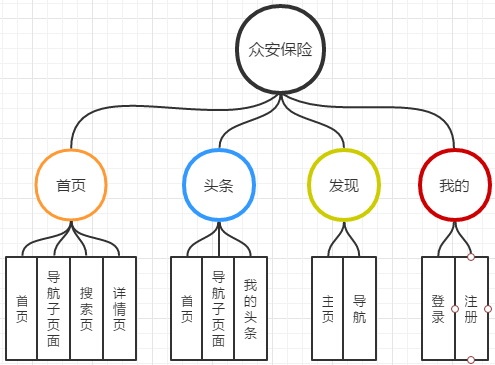
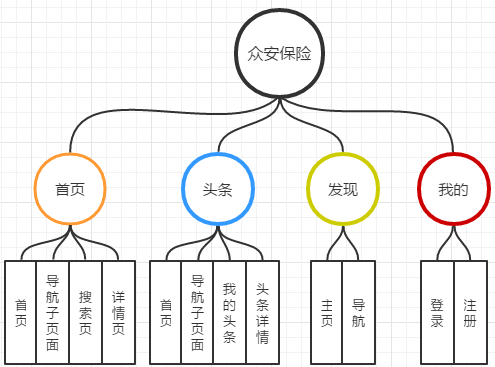
mo10

Changed region(s): [[0.0, 0.0, 1.0, 1.0], [0.6667, 0.4822, 0.7273, 0.5425]]

diff --git a/README.md b/README.md
@@ -1,12 +1,24 @@
 ## 项目名称：众安保险
 
-#### 官网：https://www.zhongan.com/
+#### 官网
 
-#### 上线网址：http://47.94.157.240:2017
+https://www.zhongan.com/
 
-#### 仓库地址：git@github.com:gzh51904/zhongan.git
+#### 上线网址
 
+http://47.94.157.240:6666
 
+#### 仓库地址
+
+git@github.com:gzh51904/zhongan.git
+
+## 使用技术与框架
+
+react、react-router、react-redux、redux、antd-UI、video-react插件、axios
+
+## 项目总体框架
+
+![](C:\Users\q1871\Desktop\momo\zhongan-cli\cli.png)
 
 ## 团队分工
 
@@ -19,11 +31,165 @@
 ###### 莫坚培：
 
 - 搭建项目脚手架，完成项目总体框架搭建
-- 完成头条页面样式、子页面样式、我的头条页面样式
-- 完成头条各个页面的逻辑、动态渲染头条列表
-- 处理保险数据，根据不同导航请求不同数据渲染
+- 完成头条页面样式、子页面样式、我的头条、头条详情页面样式
+- 完成头条各页面逻辑、根据url的参数动态渲染头条列表
+- 完成头条详情样式、根据url的参数动态渲染数据
 
+###### 曾维锟：
 
+- 完成App发现页，应用了redux共享数据，完成发现页的样式
+- 完成后台管理系统，应用了antd和React技术，实现商品列表动态渲染，实现商品的增删改查
 
+###### 胡俊森：
 
+- 完成‘我的’路由页
+- 实现登陆注册功能
+- 发现页面登录权限
+
+###### 郭样：
+
+- 完成App首页样式，子导航页面样式，自适应布局
+- 完成详情页，搜索页样式
+
+## 目录结构
+
+```
+|-- README.md
+|-- package-lock.json
+|-- package.json
+|-- public
+|   |-- favicon.ico
+|   |-- g_images
+|   |   |-- elves.jpg
+|   |   `-- youxuan.png
+|   |-- index.html
+|   `-- manifest.json
+`-- src
+    |-- App.js
+    |-- api
+    |   |-- index.js
+    |   `-- require.js
+    |-- assets
+    |   `-- img
+    |       |-- find.png
+    |       |-- find_on.png
+    |       |-- home.png
+    |       |-- home_on.png
+    |       |-- my.png
+    |       |-- my_on.png
+    |       |-- newpeople.jpg
+    |       |-- notLogin.png
+    |       |-- toutiao.png
+    |       `-- toutiao_on.png
+    |-- css
+    |   |-- App.scss
+    |   `-- base.css
+    |-- index.js
+    |-- pages
+    |   |-- Discover
+    |   |   |-- Discover.scss
+    |   |   |-- MyNav
+    |   |   |   |-- Ucarowner.jsx
+    |   |   |   |-- Ufamily.jsx
+    |   |   |   |-- Uhealth.jsx
+    |   |   |   `-- Utrip.jsx
+    |   |   `-- index.jsx
+    |   |-- Goods
+    |   |   |-- Goods.scss
+    |   |   `-- index.jsx
+    |   |-- Home
+    |   |   |-- component
+    |   |   |   |-- Bus
+    |   |   |   |   `-- index.jsx
+    |   |   |   |-- Health
+    |   |   |   |   `-- index.jsx
+    |   |   |   |-- MyHome
+    |   |   |   |   |-- MyHome.scss
+    |   |   |   |   `-- index.jsx
+    |   |   |   |-- Parent_child
+    |   |   |   |   `-- index.jsx
+    |   |   |   |-- Penates
+    |   |   |   |   `-- index.jsx
+    |   |   |   |-- RenderList.jsx
+    |   |   |   |-- Tourist
+    |   |   |   |   `-- index.jsx
+    |   |   |   `-- Treasure
+    |   |   |       `-- index.jsx
+    |   |   |-- guo_icon
+    |   |   |   |-- demo.css
+    |   |   |   |-- demo_index.html
+    |   |   |   |-- iconfont.css
+    |   |   |   |-- iconfont.eot
+    |   |   |   |-- iconfont.js
+    |   |   |   |-- iconfont.svg
+    |   |   |   |-- iconfont.ttf
+    |   |   |   |-- iconfont.woff
+    |   |   |   `-- iconfont.woff2
+    |   |   |-- index.js
+    |   |   `-- scss
+    |   |       |-- Gcomponent.scss
+    |   |       `-- Home.scss
+    |   |-- Mine
+    |   |   |-- Mine.scss
+    |   |   `-- index.js
+    |   `-- News
+    |       |-- News.scss
+    |       |-- components
+    |       |   |-- MyNews
+    |       |   |   |-- MyNews.jsx
+    |       |   |   |-- MyNews.scss
+    |       |   |   `-- pages
+    |       |   |       |-- comment.jsx
+    |       |   |       |-- course.jsx
+    |       |   |       |-- pk.jsx
+    |       |   |       `-- video.jsx
+    |       |   |-- NewsBody
+    |       |   |   |-- NewsBody.jsx
+    |       |   |   `-- NewsBody.scss
+    |       |   |-- NewsItem
+    |       |   |   |-- NewsItem.jsx
+    |       |   |   `-- NewsItem.scss
+    |       |   |-- NewsTop
+    |       |   |   |-- NewsTop.scss
+    |       |   |   `-- newsTop.jsx
+    |       |   |-- ZaNews.jsx
+    |       |   `-- public
+    |       |       |-- Advance
+    |       |       |   |-- Advance.jsx
+    |       |       |   `-- Advance.scss
+    |       |       `-- Course
+    |       |           |-- Course.jsx
+    |       |           `-- Course.scss
+    |       |-- data
+    |       |   |-- FeHelper.json
+    |       |   |-- FeHelper2.json
+    |       |   |-- FeHelper3.json
+    |       |   `-- FeHelper4.json
+    |       |-- iconfont
+    |       |   |-- demo.css
+    |       |   |-- demo_index.html
+    |       |   |-- iconfont.css
+    |       |   |-- iconfont.eot
+    |       |   |-- iconfont.js
+    |       |   |-- iconfont.svg
+    |       |   |-- iconfont.ttf
+    |       |   |-- iconfont.woff
+    |       |   `-- iconfont.woff2
+    |       |-- img
+    |       |   |-- Advance
+    |       |   |   |-- ban1.png
+    |       |   |   |-- ban2.png
+    |       |   |   |-- ban3.jpg
+    |       |   |   `-- ban4.jpg
+    |       |   |-- doc1.png
+    |       |   |-- doc2.png
+    |       |   |-- doc3.png
+    |       |   |-- doc4.png
+    |       |   |-- doc5.png
+    |       |   |-- doc6.png
+    |       |   |-- down_icon.png
+    |       |   |-- mynews_comment.png
+    |       |   |-- mynews_course.png
+    |       |   |-- mynews_pk.png
+```
 
